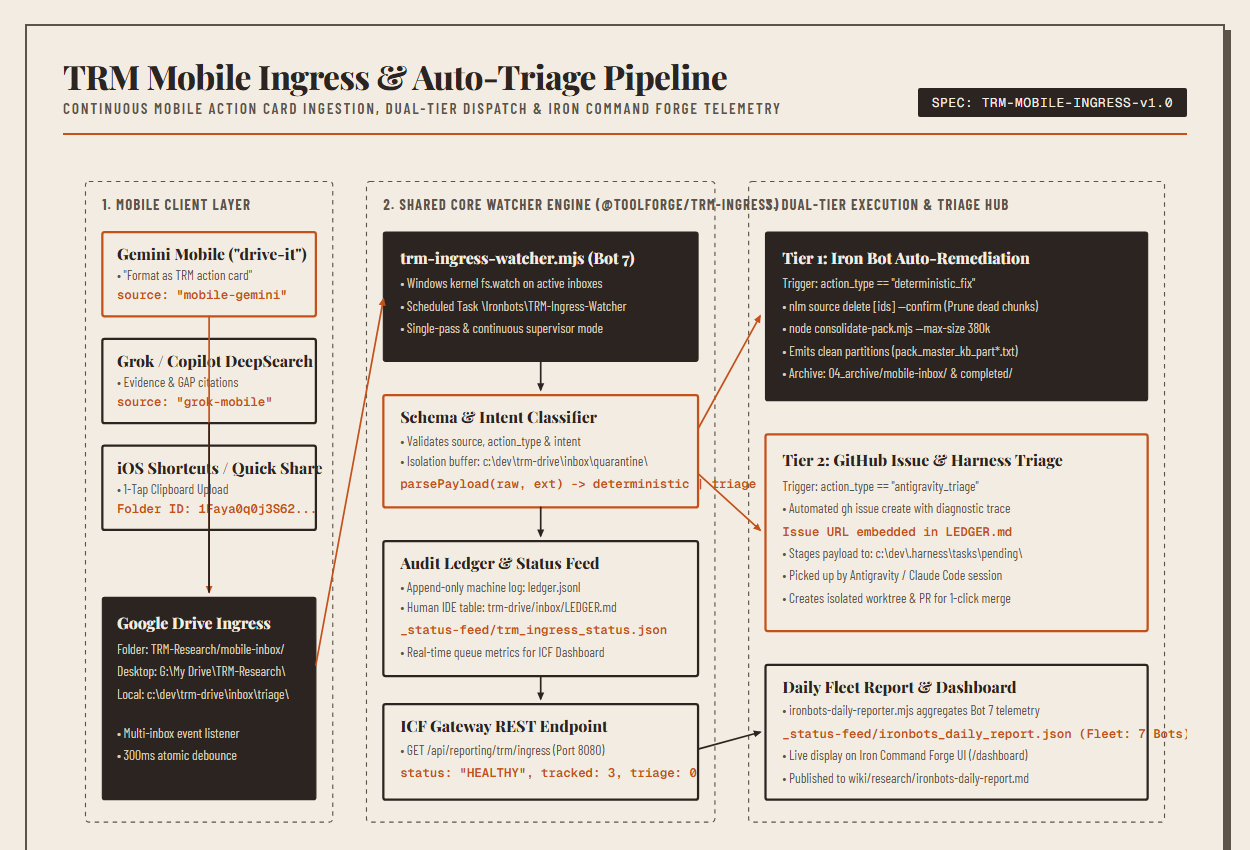
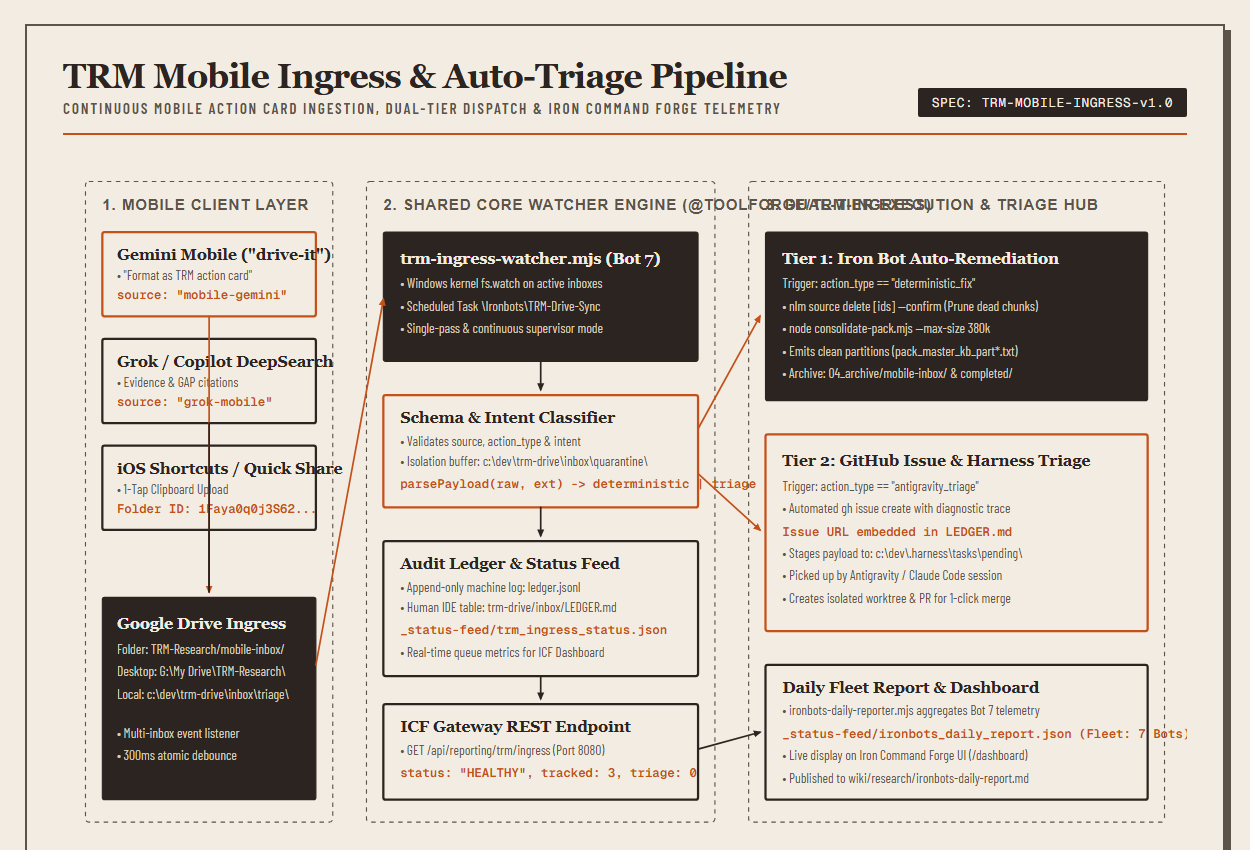
fix(ironbots): remediate 10 Devin AI review findings on PR #45 (#48)

diff --git a/trm-mobile-ingress-pipeline-architecture.html b/trm-mobile-ingress-pipeline-architecture.html
@@ -216,7 +216,7 @@
     <rect class="node-dark" x="285" y="65" width="280" height="115" rx="2"/>
     <text class="text-dark-title" x="300" y="93">trm-ingress-watcher.mjs (Bot 7)</text>
     <text class="text-dark-desc" x="300" y="115">• Windows kernel fs.watch on active inboxes</text>
-    <text class="text-dark-desc" x="300" y="135">• Scheduled Task \Ironbots\TRM-Ingress-Watcher</text>
+    <text class="text-dark-desc" x="300" y="135">• Scheduled Task \Ironbots\TRM-Drive-Sync</text>
     <text class="text-dark-desc" x="300" y="155">• Single-pass &amp; continuous supervisor mode</text>
 
     <!-- Core Box 2: Validator & Classifier -->

diff --git a/wiki/research/trm-mobile-ingress-pipeline-architecture.html b/wiki/research/trm-mobile-ingress-pipeline-architecture.html
@@ -216,7 +216,7 @@
     <rect class="node-dark" x="285" y="65" width="280" height="115" rx="2"/>
     <text class="text-dark-title" x="300" y="93">trm-ingress-watcher.mjs (Bot 7)</text>
     <text class="text-dark-desc" x="300" y="115">• Windows kernel fs.watch on active inboxes</text>
-    <text class="text-dark-desc" x="300" y="135">• Scheduled Task \Ironbots\TRM-Ingress-Watcher</text>
+    <text class="text-dark-desc" x="300" y="135">• Scheduled Task \Ironbots\TRM-Drive-Sync</text>
     <text class="text-dark-desc" x="300" y="155">• Single-pass &amp; continuous supervisor mode</text>
 
     <!-- Core Box 2: Validator & Classifier -->

diff --git a/docs/meta/governance/ironbots-development-standards.md b/docs/meta/governance/ironbots-development-standards.md
@@ -90,6 +90,23 @@ Any background daemon, scheduled worker, or autonomous maintenance script regist
 | **TRM Gaps** | `TRM-Bot` — Drafts structured RFC notes and staging markers (`status: draft`). | `Research Desk / First Mate` — Review, proof grounding, and final wiki promotion. |
 | **TRM Ingress** | `TRM-Drive-Sync` — Ingests cards, stages to `.harness/`, creates tracking issues. | `Antigravity Harness / Human Operator` — Claiming, resolving, and closing tickets. |
 
+### 3.1 Standard CLI & Wrapper Parameter Contracts
+
+All Ironbot JavaScript engines (`scripts/*-bot.mjs`, `scripts/trm-ingress-watcher.mjs`) and PowerShell scheduled task wrappers (`scripts/schedule-task-wrapper-*.ps1`) must adhere to standard CLI interfaces:
+
+1. **JavaScript Engine CLI Flags**:
+   - `--dry-run`: Runs inspection and schema validation without destructive process termination, deletion, or external mutation; outputs valid telemetry JSON.
+   - `--check-only`: (Daemon-Healer only) Evaluates endpoint health and emits telemetry without process restarting or resetting live production cooldown counters.
+   - `--once`: (TRM-Ingress only) Performs a single synchronous sweep of active inboxes and terminates, required for sequential execution in `npm run bot:all`.
+   - `--status`: Emits formatted CLI health tables to `stdout` and exits cleanly with code 0.
+
+2. **PowerShell Wrapper (`schedule-task-wrapper-*.ps1`) Contracts**:
+   - `-Action <Register|Unregister|Status|Test>`: Action verb defaulting to `Status`. `Register` creates or updates the task under `\Ironbots\` with `-LogonType S4U`; `Test` executes a direct test invocation.
+   - `-Unattended`: Enforces headless S4U execution (`Run whether user is logged on or not`).
+   - `-Continuous`: (TRM-Drive-Sync only) Explicitly launches or registers in persistent `fs.watch` event-listener mode.
+   - `-Once`: (TRM-Drive-Sync only) Overrides background registration to single-sweep execution.
+   - `-DryRun`: Forwards `--dry-run` flag to underlying Node.js script.
+
 ---
 
 ## 4. Operational Fleet Matrix

diff --git a/wiki/research/trm-mobile-ingress-pipeline.md b/wiki/research/trm-mobile-ingress-pipeline.md
@@ -162,11 +162,18 @@ flowchart TD
 ## Operational CLI commands
 
 ```powershell
-# Run single-pass sweep
-pwsh -NoProfile -File scripts/schedule-task-wrapper-TRM-Ingress-Watcher.ps1
+# Run single-pass sweep via wrapper
+pwsh -NoProfile -File scripts/schedule-task-wrapper-TRM-Ingress-Watcher.ps1 -Action Test
+
+# Run single-pass sweep via npm
+npm run bot:trm:ingress
 
 # Start continuous real-time background watcher
-pwsh -NoProfile -File scripts/schedule-task-wrapper-TRM-Ingress-Watcher.ps1 -Continuous
+pwsh -NoProfile -File scripts/schedule-task-wrapper-TRM-Ingress-Watcher.ps1 -Action Test -Continuous
+# or: npm run bot:trm:watch
+
+# Register background daemon service under \Ironbots\
+pwsh -NoProfile -File scripts/schedule-task-wrapper-TRM-Ingress-Watcher.ps1 -Action Register -Unattended
 
 # Check live queue metrics & audit ledger
 pwsh -NoProfile -File scripts/get-trm-status.ps1
